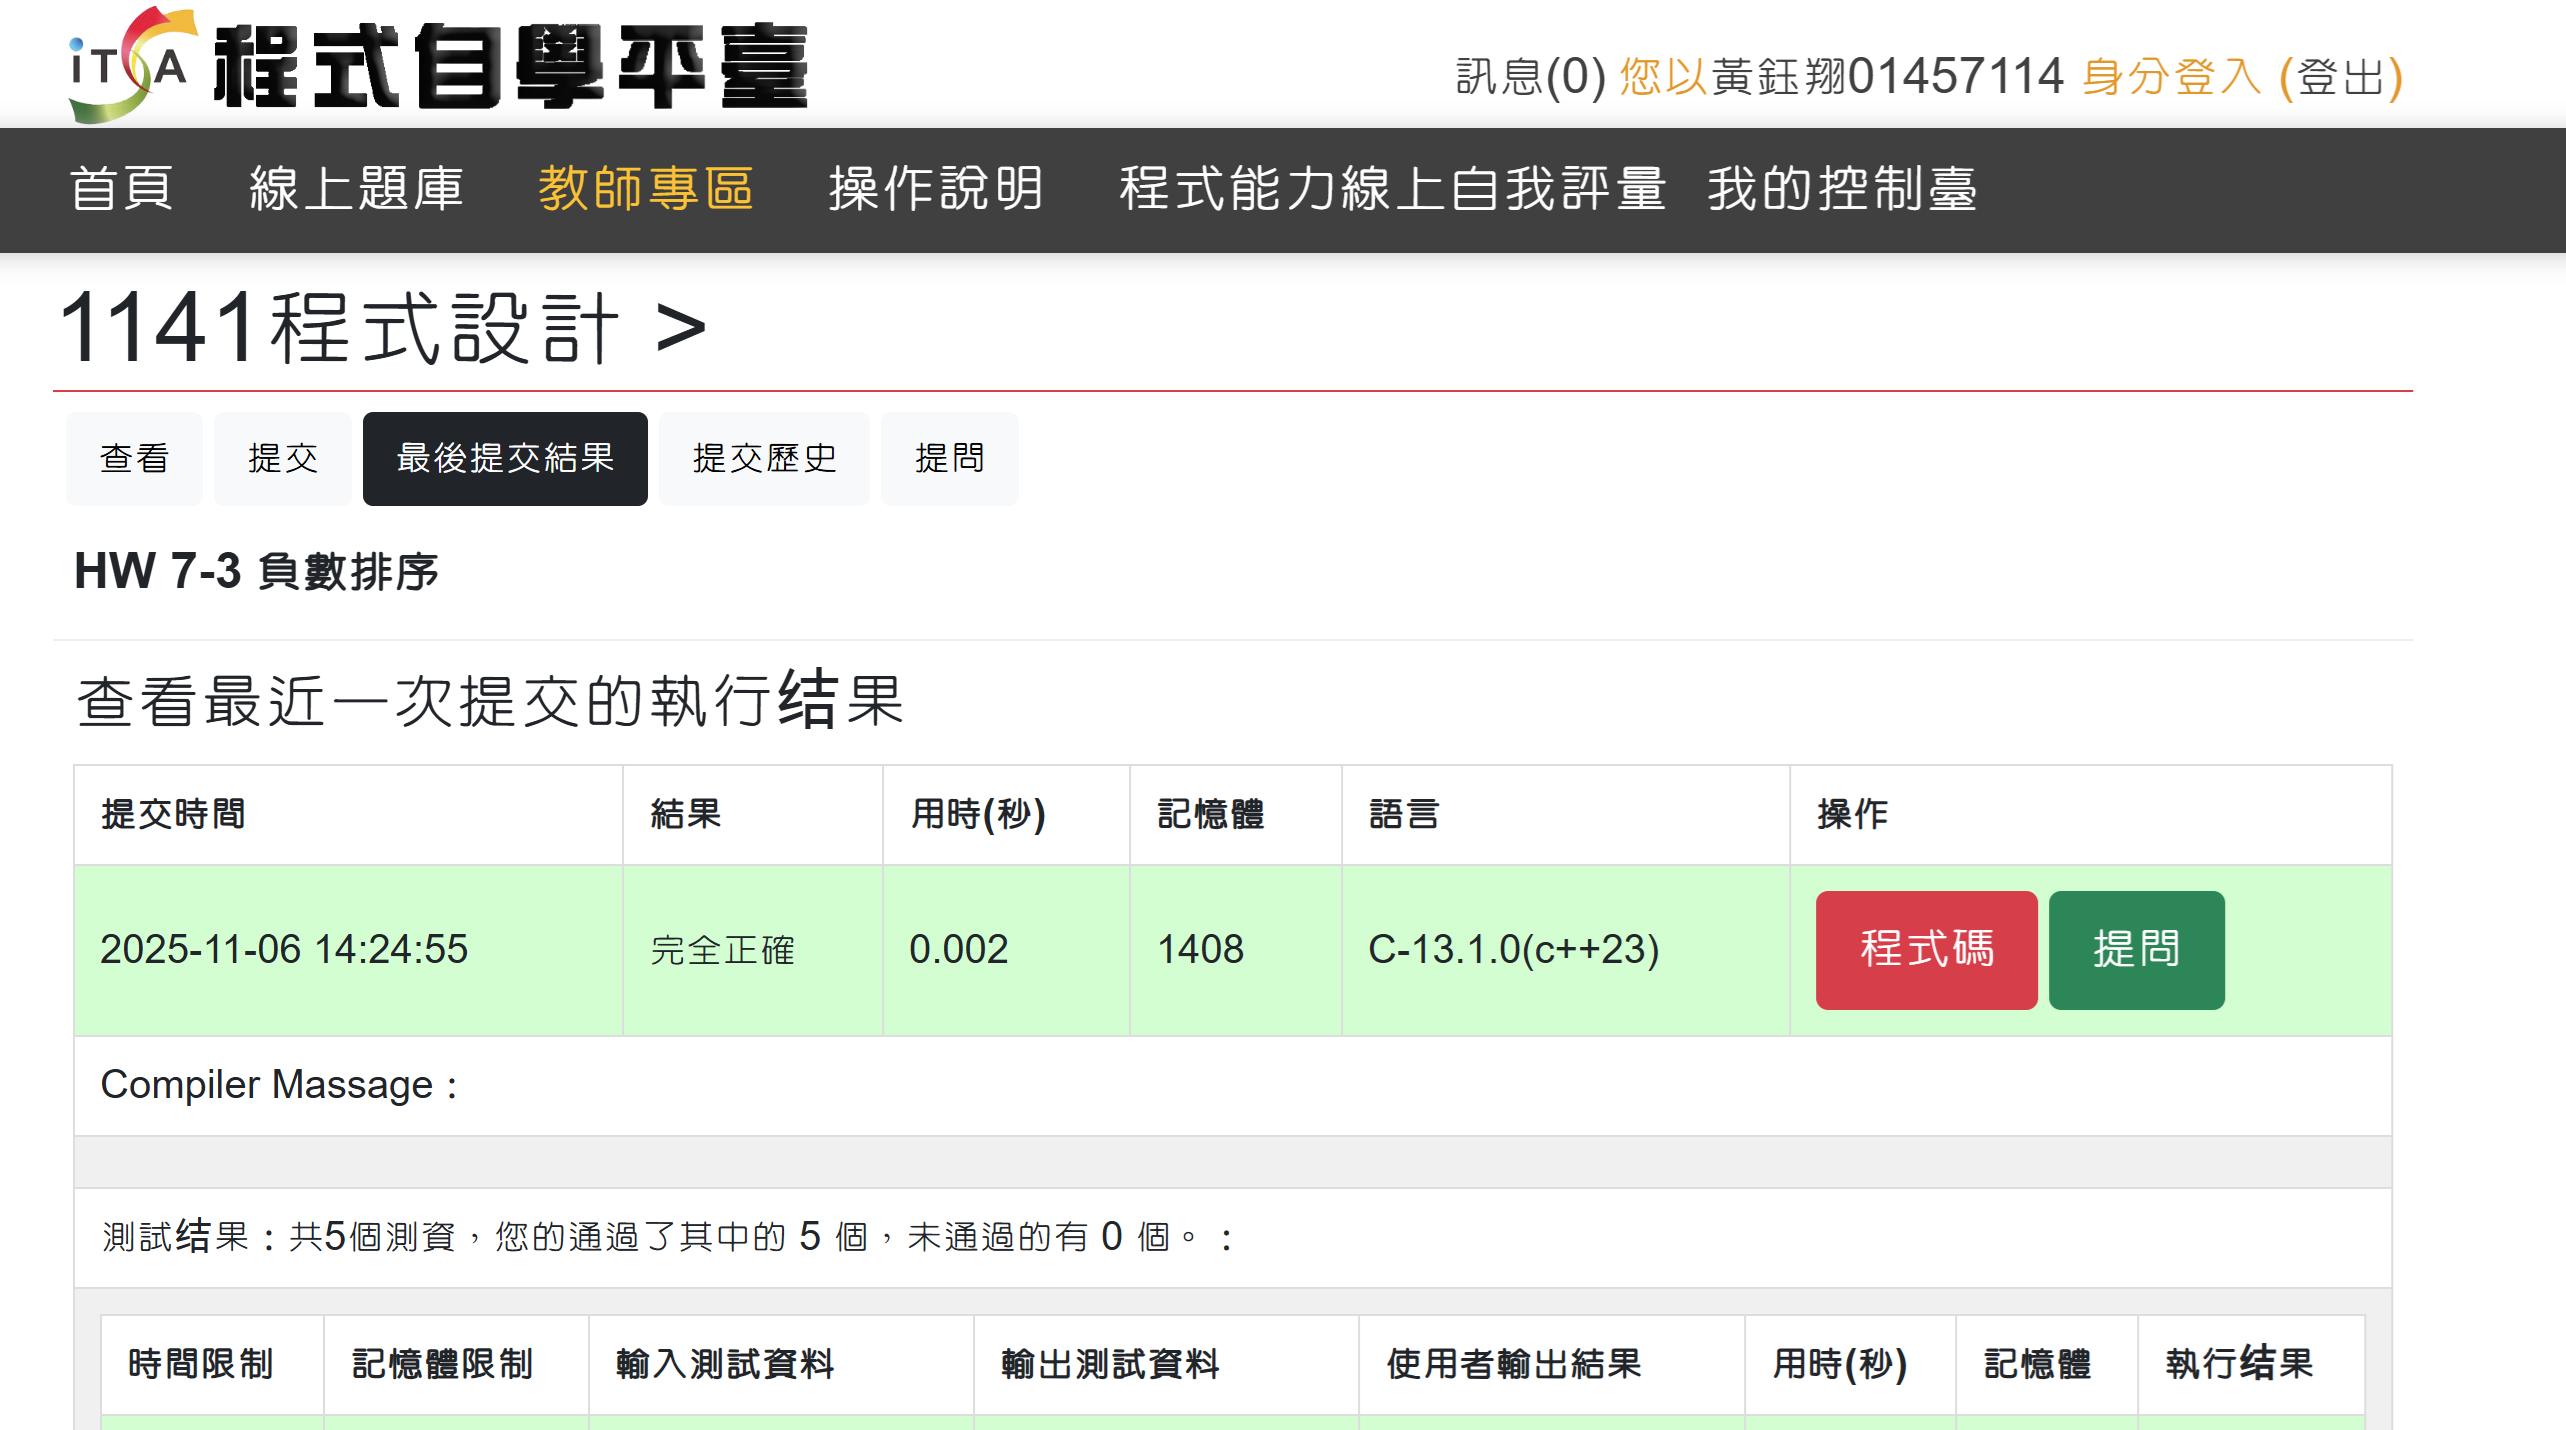
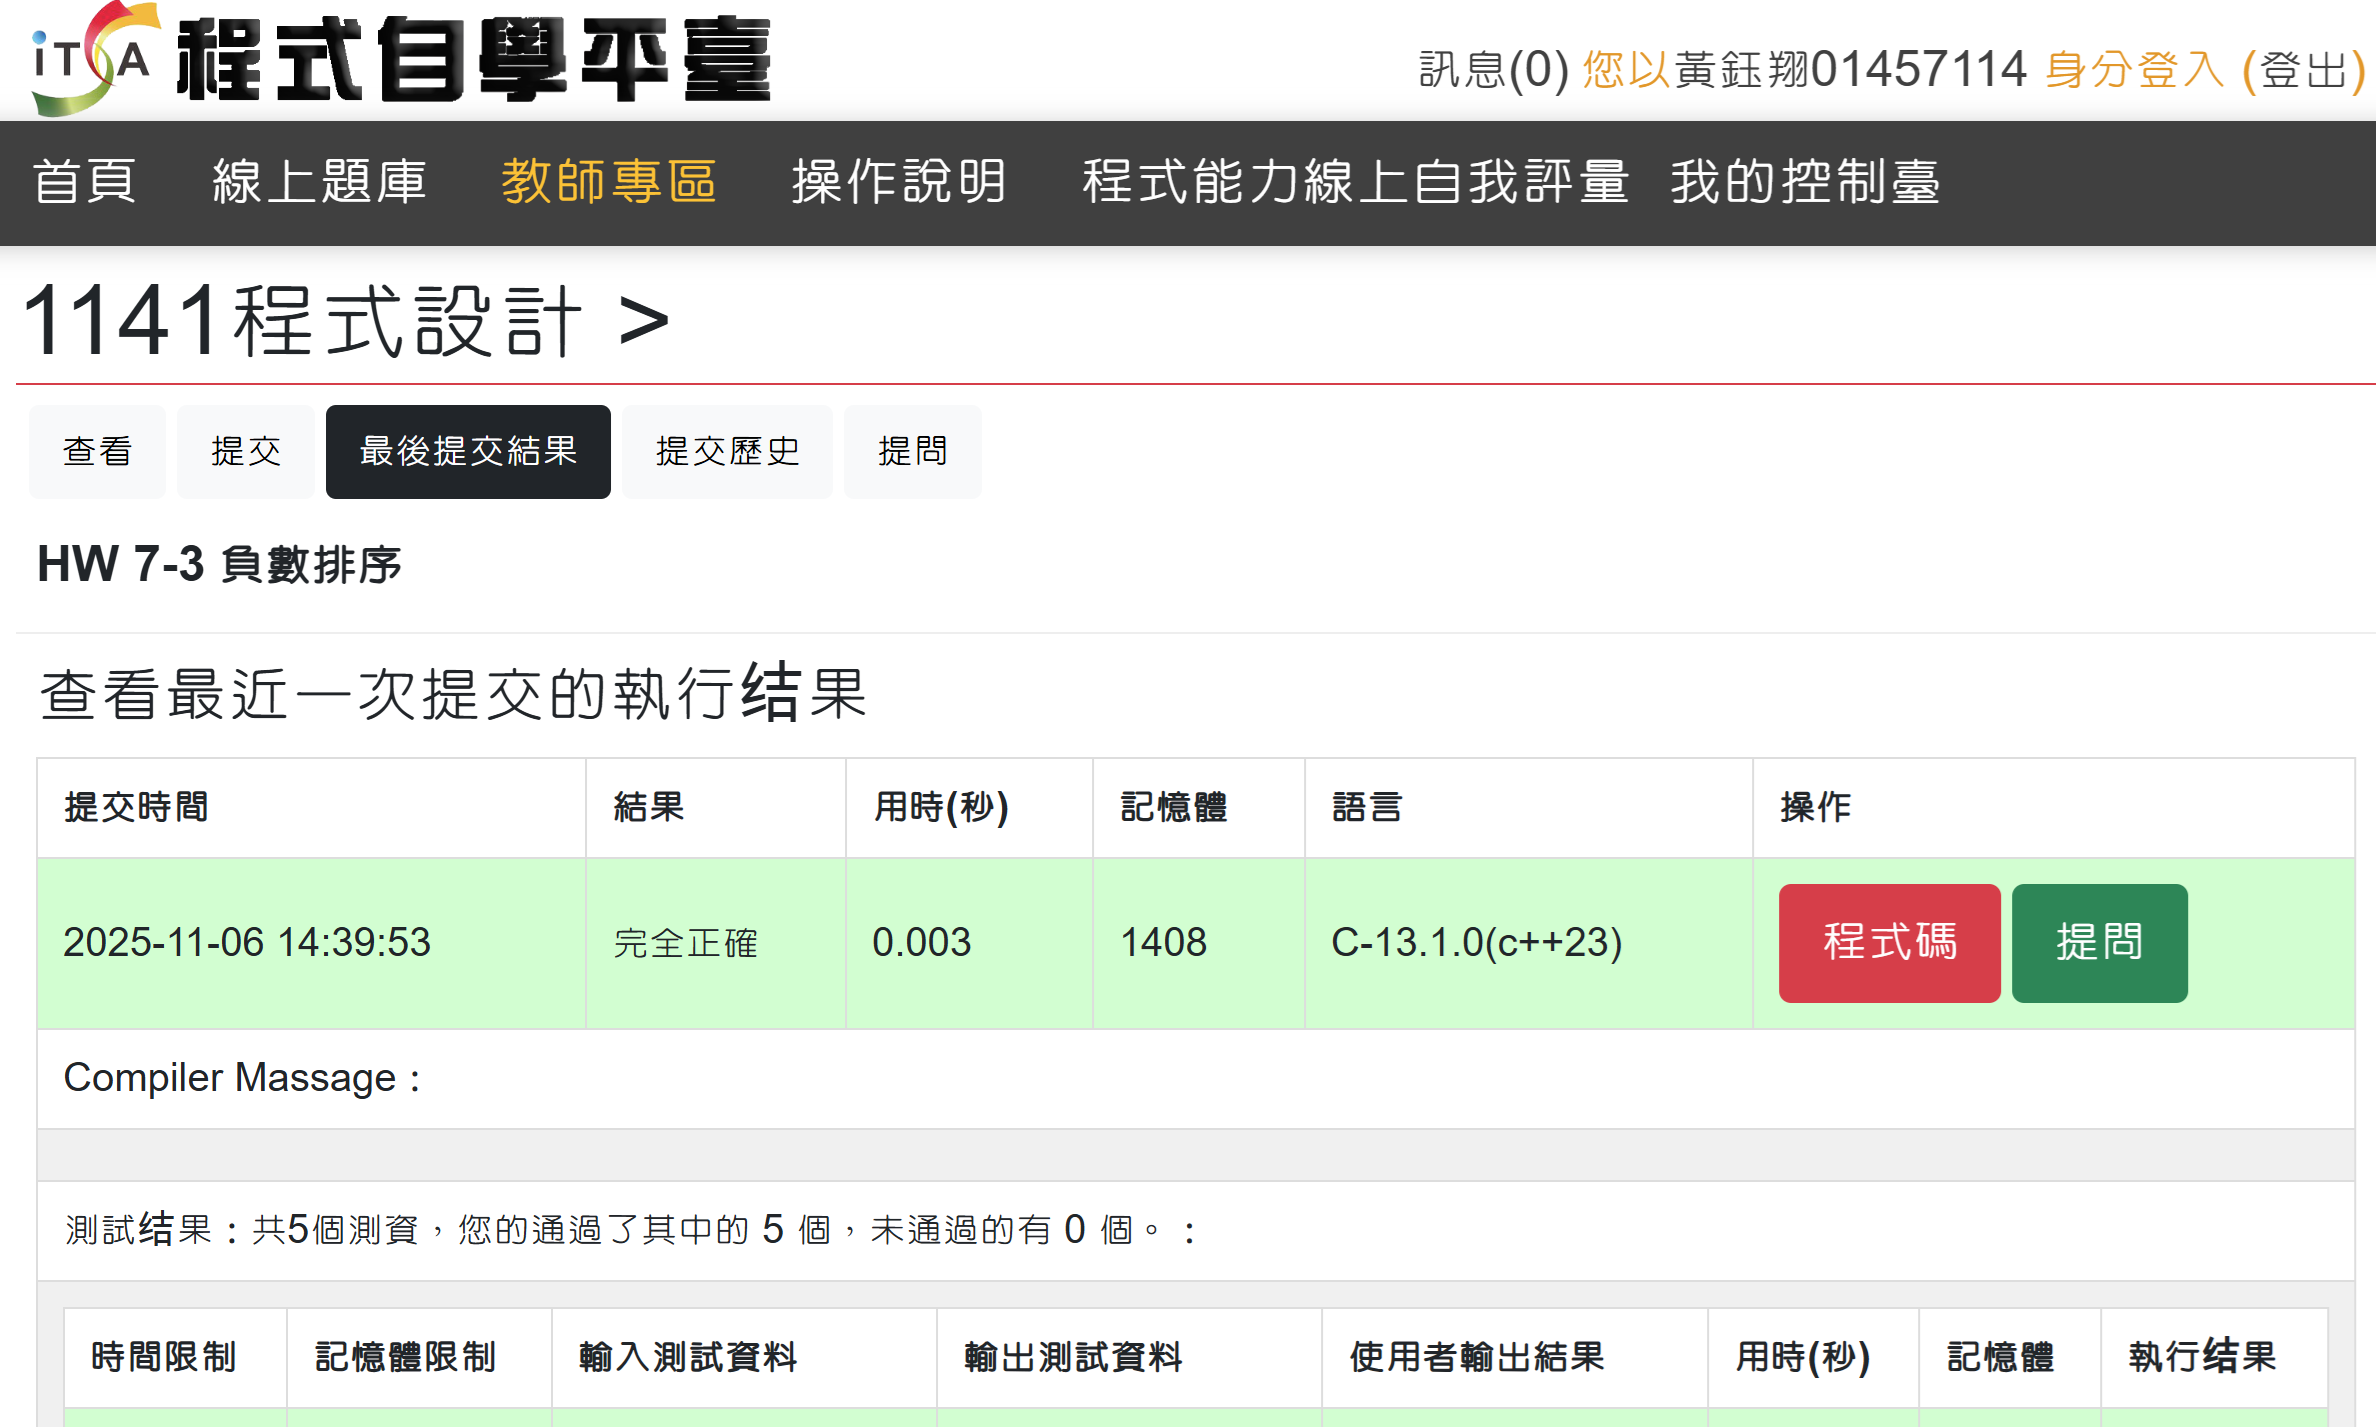
add: programming HW 7-2

diff --git a/Programming/1105_HW7/HW_7_3_Move_Negatives_C.c b/Programming/1105_HW7/HW_7_3_Move_Negatives_C.c
@@ -24,43 +24,49 @@ void bubbleSort(int arr[], int n) {
     }
 }
 
-int main() {
-    // n: 輸入總數, tmp: 輸入陣列用暫存、is_first: 是否為第一個數字
-    int n, tmp, is_first=1;
-    scanf("%d", &n);
-    int positive[n], negative[n];
+void moveNegatives(int intArray[], int arraySize) {
+    // tmp: 輸入陣列用暫存、is_first: 是否為第一個數字
+    int tmp, is_first=1;
+    int positive[arraySize], negative[arraySize];
     int cnt_positive = 0, cnt_negative = 0; // 正、負數的個數計數
-
-    for(int i = 0; i < n; i++) {
-        // 輸入陣列
-        scanf("%d", &tmp);
+    for(int i = 0; i < arraySize; i++) {
+        // 轉換陣列，分為正負
+        tmp = intArray[i];
         if(tmp >= 0) {
             positive[cnt_positive++] = tmp; // 正數放進正數陣列
         } else {
             negative[cnt_negative++] = tmp; // 負數放進負數陣列
         }
     }
+    int i;
+    for(i = 0; i < cnt_positive;i++) {
+        // 重新置入正數
+        intArray[i] = positive[i];
+    }    
+    for(i = 0; i < cnt_negative;i++) {
+        // 重新置入負數
+        intArray[i+cnt_positive] = negative[i];
+    }
+}
 
+int main() {
+    int n;
+    // 讀入總數
+    scanf("%d", &n);
+    int arr[n];
+    // 輸入陣列
+    for(int i = 0; i < n; i++) {
+        scanf("%d", &arr[i]);
+    }     
+    moveNegatives(arr, n); // 呼叫函式
     // 輸出
-    printf("{"); 
-    for(int i = 0; i < cnt_positive;i++) {
-        // 印正數
-        if(is_first == 0) {
-            printf(", "); // 如果不是第一個，就印前綴的空格
+    printf("{");
+    for(int i = 0; i < n; i++) {
+        if (i != 0) {
+            printf(", "); // 逗號
         }
-        printf("%d", positive[i]);
-        is_first = 0; // 輸出過改變狀態
+        printf("%d", arr[i]);
     }
-    
-    for(int i = 0; i < cnt_negative;i++) {
-        // 印負數
-        if(is_first == 0) {
-            printf(", "); // 如果不是第一個，就印前綴的空格
-        }
-        printf("%d", negative[i]);
-        is_first = 0; // 輸出過改變狀態
-    }
-    
-    printf("}\n");
+    printf("}");
     return 0;
 }
